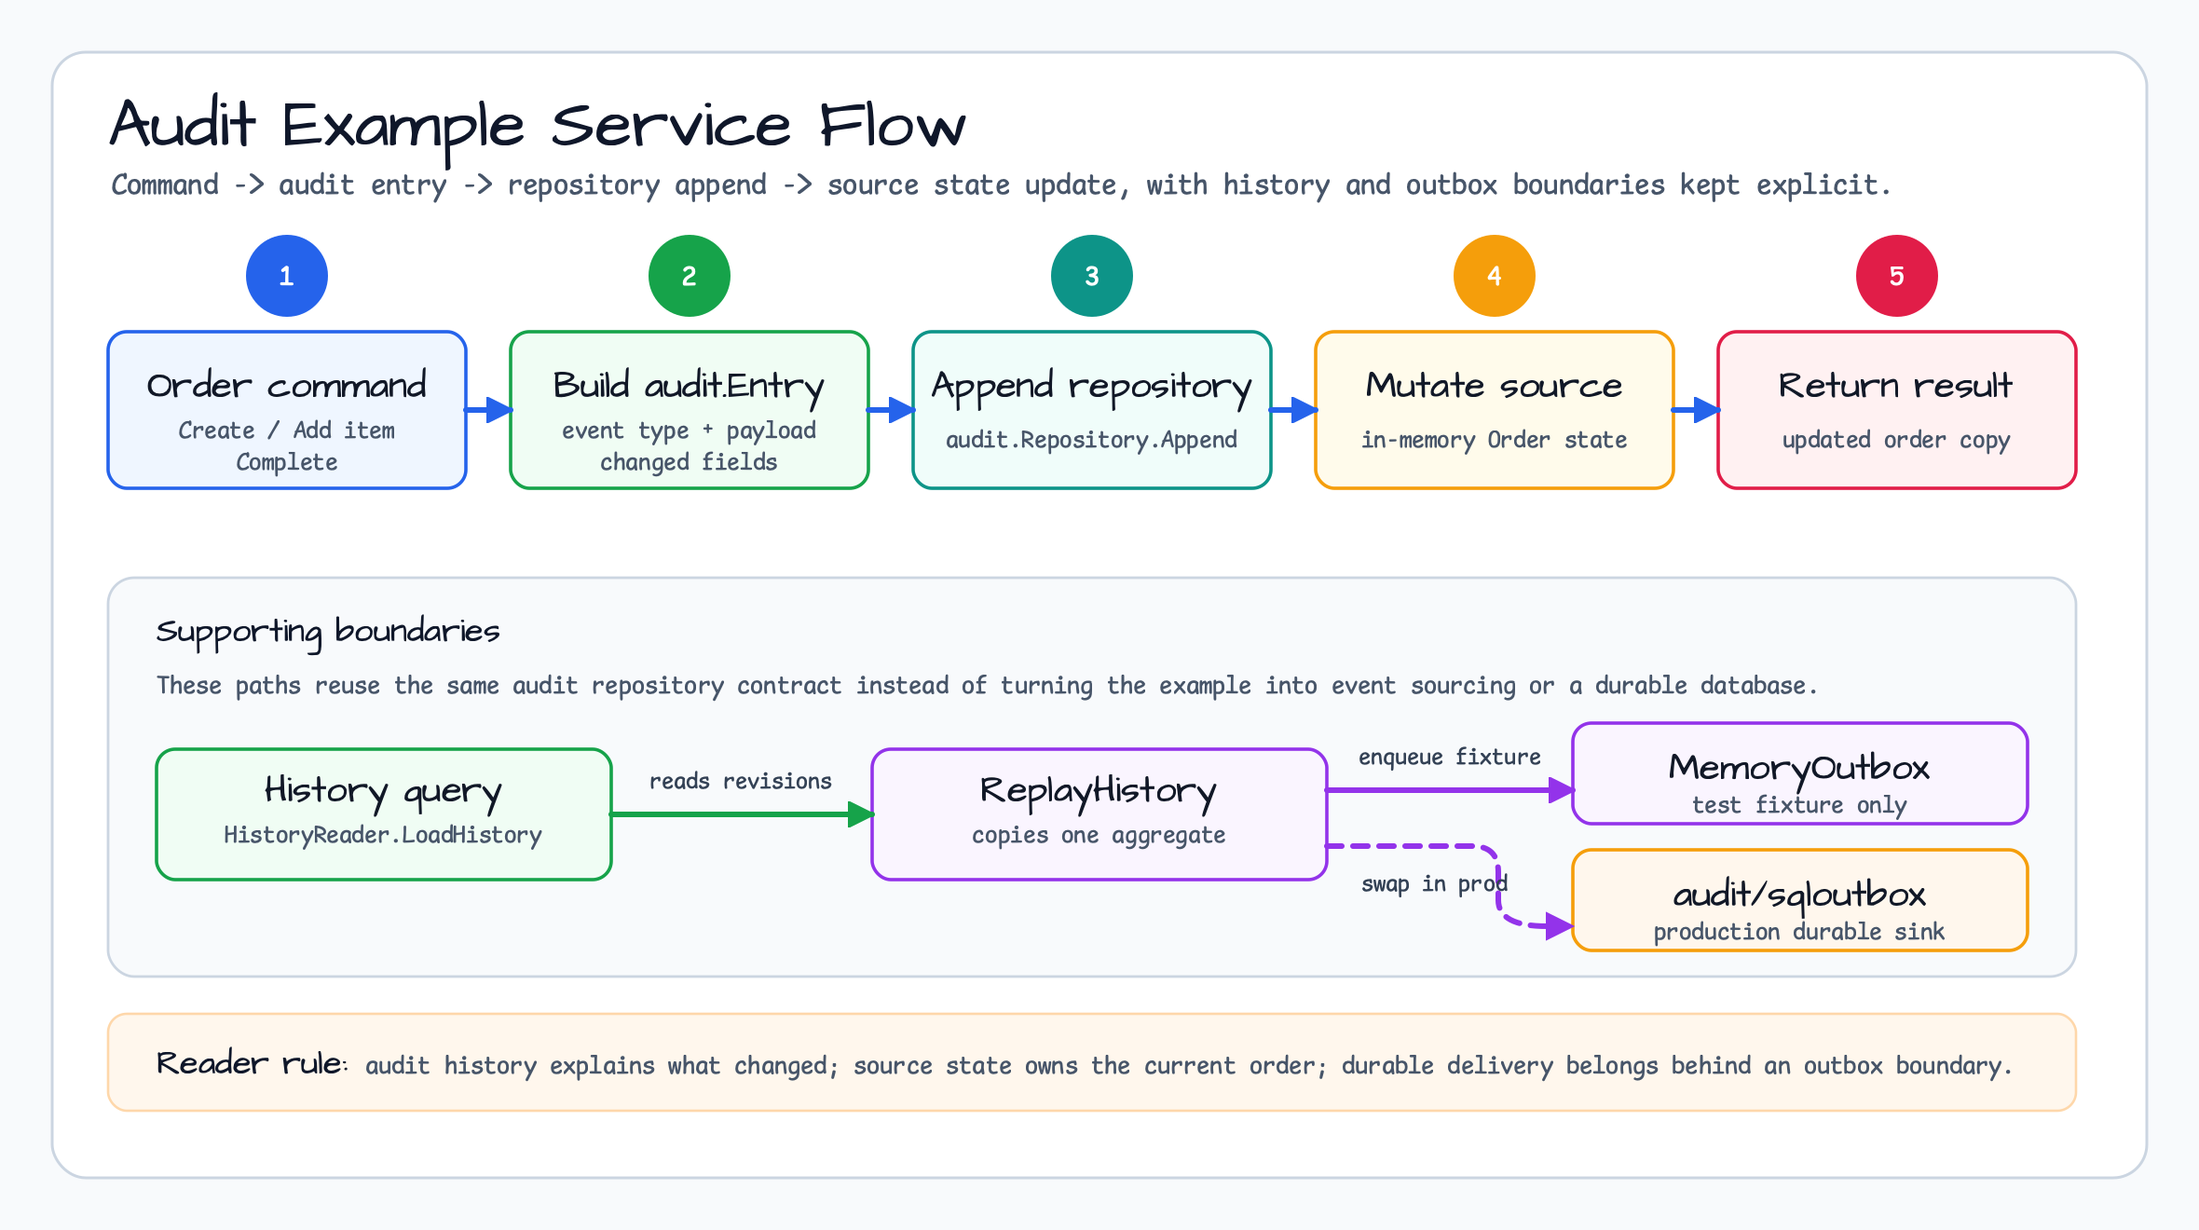
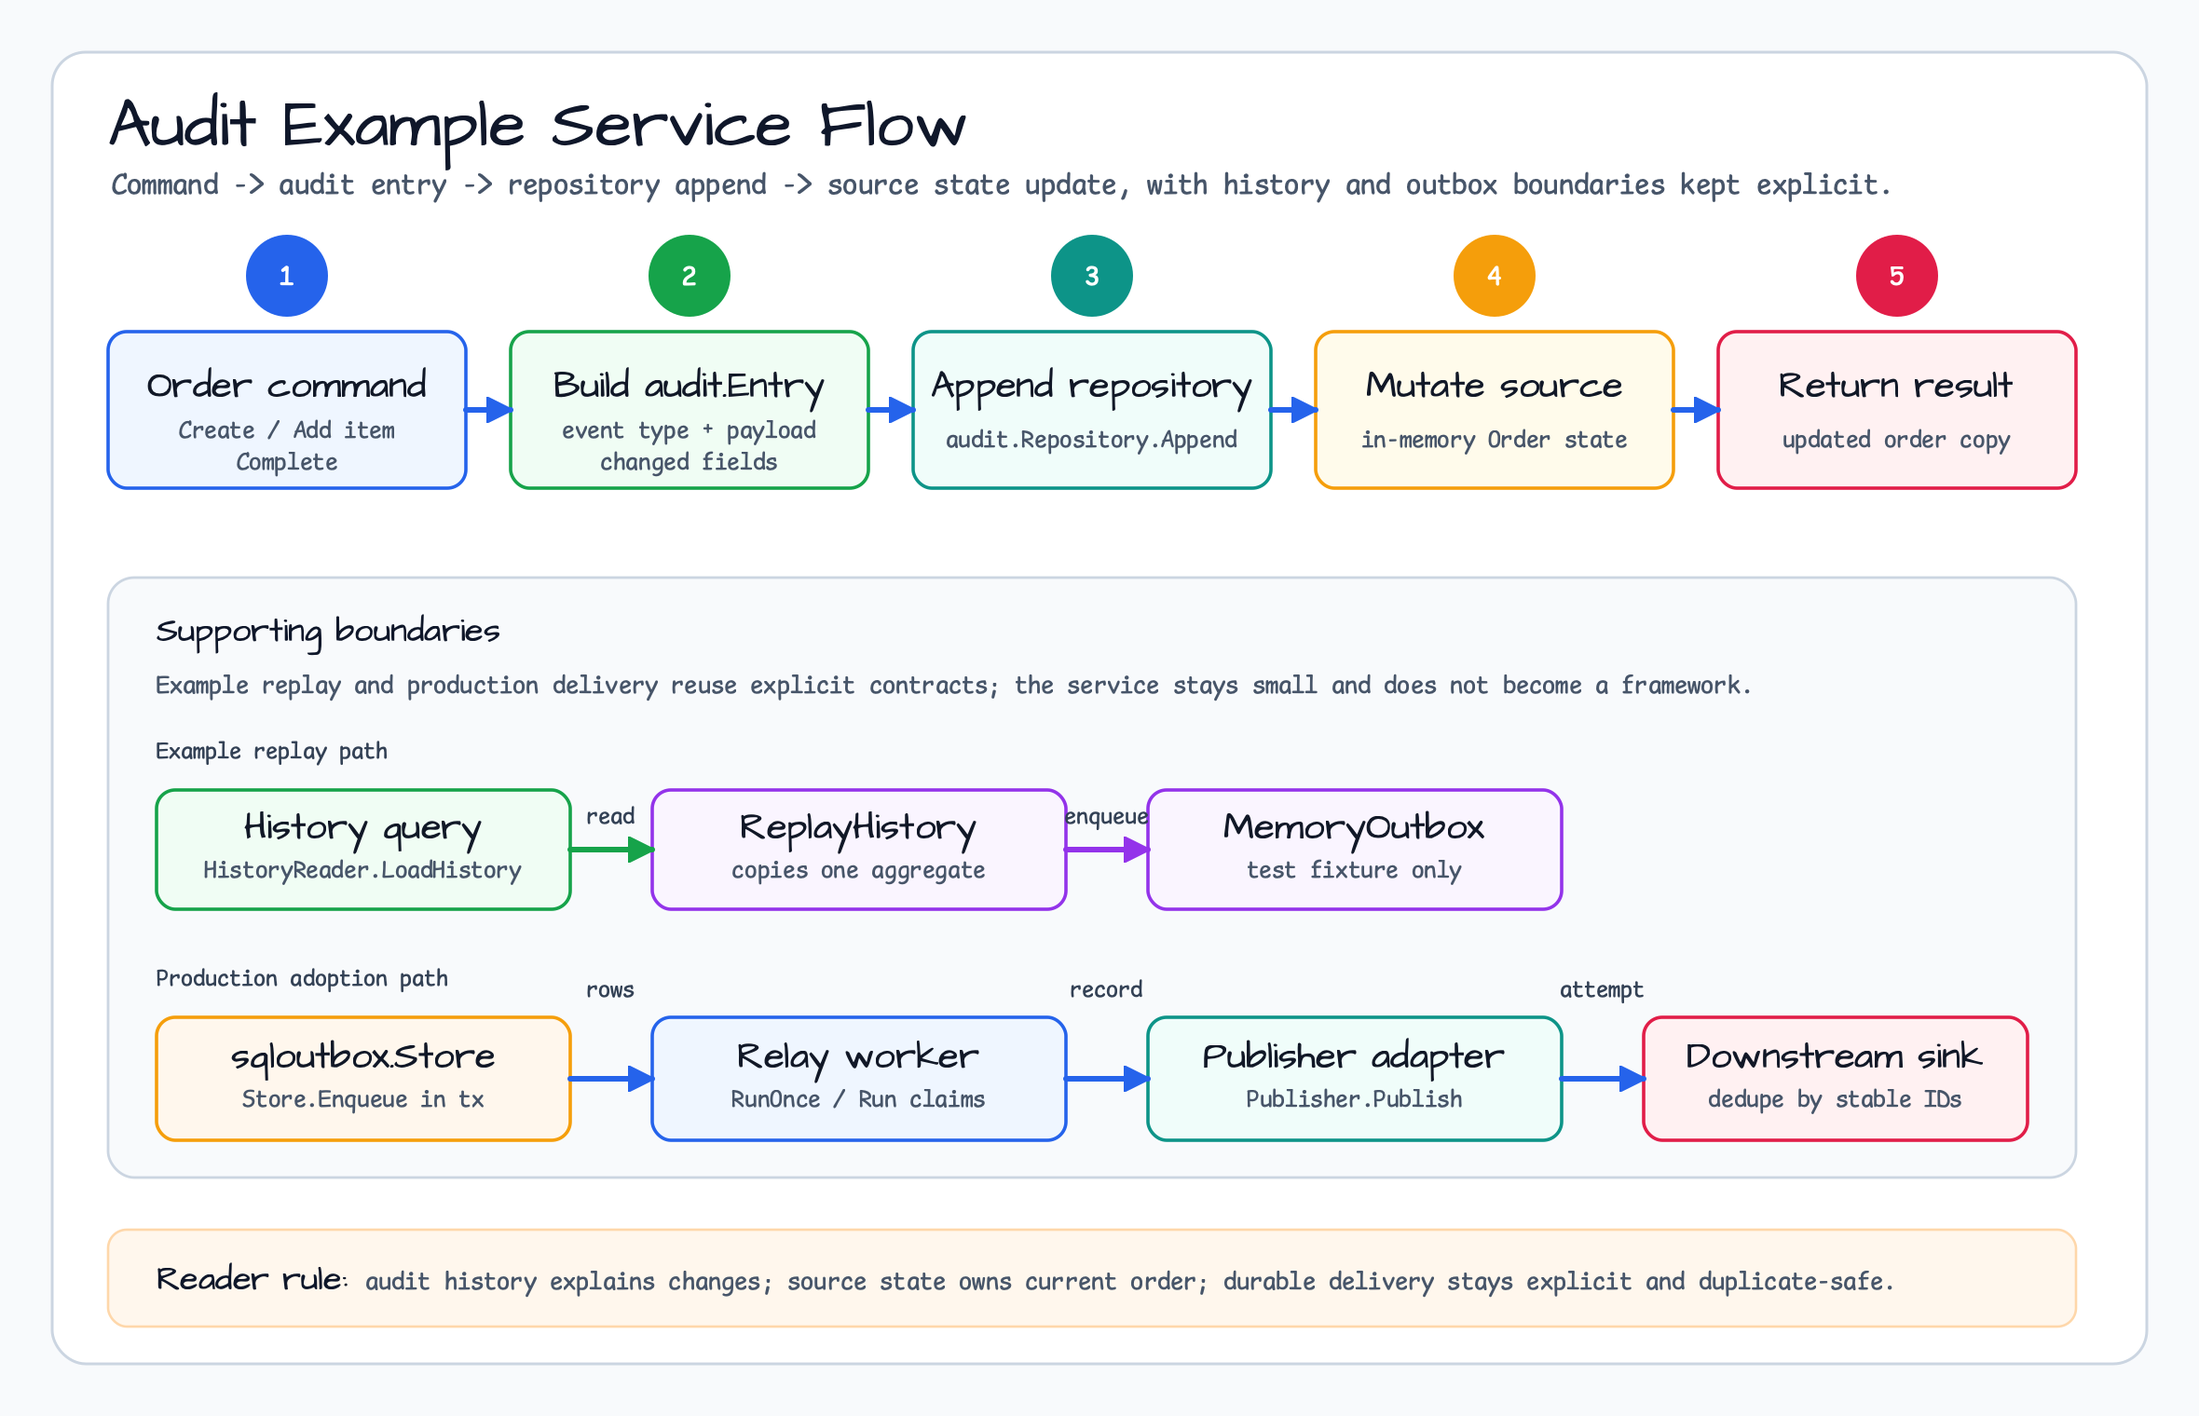
Document audit publisher adoption path
Document audit publisher adoption in README pairs and refresh the audit example flow diagram with relay-to-publisher handoff.\n\nConstraint: #408 required source-checked API names, operator retry/redaction/duplicate-delivery notes, and workshop follow-up linkage.\nRejected: adding a new runtime example framework | docs and one existing diagram answer the adoption question without broadening package scope.\nConfidence: high\nScope-risk: narrow\nDirective: Keep future audit publisher adoption docs explicit about at-least-once delivery and downstream idempotency.\nTested: SVG parse; CairoSVG render; diagram connector/geometry/mixed-corner/endpoint audits; full-size PNG eye check; API symbol grep; go test -count=1 ./examples/audit ./audit/sqloutbox ./audit/sqloutbox/sqloutboxtest; go test -race -count=1 ./examples/audit ./audit/sqloutbox/sqloutboxtest; git diff --check; git diff --cached --check; make ci; GitHub CI success.\nNot-tested: Cross-repo workshop implementation remains tracked by bluetape-go-workshop#57.

Changed region(s): [[0.0619, 0.4348, 0.9589, 0.8697], [0.0309, 0.0311, 0.9898, 0.4038], [0.0309, 0.9008, 0.9589, 0.9629]]

diff --git a/docs/review/2026-07-07-issue-408-audit-publisher-adoption-review.md b/docs/review/2026-07-07-issue-408-audit-publisher-adoption-review.md
@@ -1,0 +1,107 @@
+# Issue #408 Review: Audit Publisher Adoption
+
+## Scope
+
+- English/Korean root README audit example summary updates.
+- English/Korean `examples/audit` README publisher adoption and operator notes.
+- `audit-example-service-flow` SVG/PNG refresh.
+- Research and lesson notes for the adoption decision.
+
+## Subagent Note
+
+Native subagent spawning was not used because the available subagent tool
+surface is gated to explicit user subagent requests. The main session performed
+the six independent review lanes and integration verdict as fallback.
+
+## Lane Findings
+
+### Performance
+
+P0: 0
+P1: 0
+
+- Documentation-only change; no runtime hot path changed.
+- The example still avoids adding a durable broker adapter or new framework
+  layer.
+
+### Stability
+
+P0: 0
+P1: 0
+
+- README prose references existing public API names only.
+- Relay lifecycle distinctions are explicit: `RunOnce` for scheduler polling,
+  `Run` for context-owned worker loops.
+
+### Security
+
+P0: 0
+P1: 0
+
+- Operator notes preserve bounded/redacted publisher error guidance.
+- No credentials, network clients, TLS settings, broker topology, or durable
+  transport configuration are introduced.
+
+### Operator/Ops
+
+P0: 0
+P1: 0
+
+- Retry behavior, cancellation behavior, persisted failure text, duplicate
+  delivery, and downstream idempotency are documented.
+- Workshop follow-up is linked instead of implying this repo now owns all
+  runnable cross-repo service examples.
+
+### Developer/API
+
+P0: 0
+P1: 0
+
+- The adoption path names `Store.Enqueue`, `NewRelay`, `Relay.RunOnce`,
+  `Relay.Run`, `Publisher.Publish`, `Record.EventID`, and
+  `Record.IdempotencyKey`.
+- `sqloutboxtest.RecordingPublisher` and `WithFailures` are documented for
+  retry/duplicate test adoption.
+
+### User/Caller
+
+P0: 0
+P1: 0
+
+- Root and package README pairs now state how the example maps to production
+  outbox relay and publisher handoff.
+- The refreshed diagram shows both the example replay path and the production
+  adoption path in one image.
+
+## Integration Verdict
+
+P0: 0
+P1: 0
+
+The change satisfies #408 without broadening runtime scope. It keeps the audit
+example small, documents the relay-to-publisher adoption path with source
+checked API names, links the workshop follow-up, and updates one existing
+diagram asset with verified rendering.
+
+## Diagram Evidence
+
+| Gate | Evidence | Result |
+|---|---|---|
+| SVG parse | `python3 - <<'PY' ... ET.parse('docs/images/readme-diagrams/audit-example-service-flow.svg') ... PY` | PASS, `xml ok` |
+| PNG render | `cairosvg docs/images/readme-diagrams/audit-example-service-flow.svg -o docs/images/readme-diagrams/audit-example-service-flow.png -s 2` | PASS |
+| Connector audit | `diagram-connector-audit.py docs/images/readme-diagrams/audit-example-service-flow.svg` | PASS, `markers=3 connectors=9 cards=0 intrusions=0 crossings=0` |
+| Geometry audit | `diagram-geometry-audit.py docs/images/readme-diagrams/audit-example-service-flow.svg` | PASS, `geometry_failures=0` |
+| Mixed-corner audit | `diagram-mixed-corner-audit.py docs/images/readme-diagrams/audit-example-service-flow.svg` | PASS, `paths=9 q_bends=0 failures=0` |
+| Endpoint audit | `diagram-endpoint-audit.py docs/images/readme-diagrams/audit-example-service-flow.svg` | PASS |
+| Full-size eye check | Visual inspection of rendered `audit-example-service-flow.png` after label adjustment | PASS, no text/connector overlap observed |
+
+## Evidence
+
+- `rg -n "type Publisher|func NewRelay|RunOnce|Run\\(|Enqueue|EventID|IdempotencyKey|NewRecordingPublisher|WithFailures" audit/sqloutbox audit/sqloutbox/sqloutboxtest`
+- `go test -count=1 ./examples/audit ./audit/sqloutbox ./audit/sqloutbox/sqloutboxtest`
+- `go test -race -count=1 ./examples/audit ./audit/sqloutbox/sqloutboxtest`
+- `git diff --check`
+- `git diff --cached --check`
+- `golangci-lint cache clean` after an initial lint run referenced the removed
+  #407 worktree from cache
+- `make ci`

diff --git a/examples/audit/README.ko.md b/examples/audit/README.ko.md
@@ -4,7 +4,8 @@
 
 이 package는 `audit` package를 사용하는 runnable order-service example입니다.
 Framework나 public helper API를 추가하지 않고 command-side aggregate 변경,
-audit repository write, history query, optional outbox replay를 보여줍니다.
+audit repository write, history query, optional outbox replay, durable outbox
+row에서 publisher로 이어지는 운영 handoff를 보여줍니다.
 
 ![Audit Example Service Flow](../../docs/images/readme-diagrams/audit-example-service-flow.png)
 
@@ -23,7 +24,37 @@ audit repository write, history query, optional outbox replay를 보여줍니다
 
 `MemoryOutbox`는 replay boundary를 테스트하기 위한 fixture입니다. 운영 code에서는
 application-owned transaction 안에서 `EntrySink`를
-`audit/sqloutbox.Store.Enqueue`로 연결하면 됩니다.
+`audit/sqloutbox.Store.Enqueue`로 연결하면 됩니다. Service-owned relay는
+`sqloutbox.NewRelay`를 만들고 `Relay.RunOnce` 또는 `Relay.Run`으로 polling한 뒤,
+claim된 `sqloutbox.Record`를 `sqloutbox.Publisher.Publish`에 넘깁니다.
+
+## Publisher Adoption
+
+Adoption path는 명시적으로 유지합니다.
+
+1. Source write와 `Store.Enqueue`는 caller-owned `*sql.Tx`를 공유합니다. Package는
+   transaction hook을 숨기지 않습니다.
+2. `Relay.RunOnce`는 scheduler-owned polling에, `Relay.Run`은 `context.Context`로
+   제어되는 worker lifecycle에 사용합니다.
+3. Publisher adapter는 `Record.EventID`와 `Record.IdempotencyKey`를 보존해야
+   downstream consumer가 at-least-once delivery를 deduplicate할 수 있습니다.
+4. Durable transport adapter가 없을 때도 test와 workshop에서는
+   `sqloutboxtest.RecordingPublisher`와 `sqloutboxtest.WithFailures`로 retry와
+   duplicate-delivery behavior를 먼저 증명할 수 있습니다.
+
+Operator notes:
+
+- Retry는 cancellation이 아닌 `Publisher.Publish` error와 relay의 `MaxAttempts` /
+  `RetryDelay` option으로 제어됩니다.
+- Context cancellation과 deadline은 retry/dead-letter 상태를 만들지 않고 worker를
+  멈춥니다.
+- Persisted failure text는 operator-facing입니다. Publisher가 반환하는 error는
+  bounded/redacted여야 합니다.
+- Duplicate delivery는 contract의 일부입니다. Consumer는 `Record.EventID` 또는
+  `Record.IdempotencyKey`를 stable idempotency key로 취급해야 합니다.
+- Cross-repo workshop coverage는
+  [bluetape-go-workshop#57](https://github.com/bluetape4k/bluetape-go-workshop/issues/57)
+  에서 추적합니다.
 
 ## Non-Goals
 
@@ -44,6 +75,7 @@ go test -race -count=1 ./examples/audit
 
 - [`audit`](../../audit/README.ko.md)
 - [`audit/sqloutbox`](../../audit/sqloutbox/README.ko.md)
+- [`audit/sqloutbox/sqloutboxtest`](../../audit/sqloutbox/sqloutboxtest/README.ko.md)
 - [`testing/concurrency`](../../testing/concurrency/README.ko.md)
 
 Diagram source: [`audit-example-service-flow.svg`](../../docs/images/readme-diagrams/audit-example-service-flow.svg)

diff --git a/examples/audit/README.md b/examples/audit/README.md
@@ -4,7 +4,8 @@
 
 This package is a runnable order-service example for the `audit` package. It
 shows command-side aggregate changes, audit repository writes, history queries,
-and optional outbox replay without introducing a framework or public helper API.
+optional outbox replay, and the production handoff from durable outbox rows to a
+publisher without introducing a framework or public helper API.
 
 ![Audit Example Service Flow](../../docs/images/readme-diagrams/audit-example-service-flow.png)
 
@@ -23,7 +24,37 @@ Think of the example as three small boundaries, not one framework:
 
 `MemoryOutbox` is only a fixture for the replay boundary. Production code can
 adapt `EntrySink` to `audit/sqloutbox.Store.Enqueue` inside an
-application-owned transaction.
+application-owned transaction. A service-owned relay then calls
+`sqloutbox.NewRelay`, polls with `Relay.RunOnce` or `Relay.Run`, and hands each
+claimed `sqloutbox.Record` to `sqloutbox.Publisher.Publish`.
+
+## Publisher Adoption
+
+Keep the adoption path explicit:
+
+1. Source writes and `Store.Enqueue` share the caller-owned `*sql.Tx`; the
+   package does not hide transaction hooks.
+2. `Relay.RunOnce` is for scheduler-owned polling, while `Relay.Run` is for a
+   worker lifecycle controlled by `context.Context`.
+3. Publisher adapters must preserve `Record.EventID` and
+   `Record.IdempotencyKey` so downstream consumers can deduplicate at-least-once
+   delivery.
+4. Tests and workshops can use `sqloutboxtest.RecordingPublisher` with
+   `sqloutboxtest.WithFailures` to prove retry and duplicate-delivery behavior
+   before a durable transport adapter exists.
+
+Operator notes:
+
+- Retry is driven by non-cancellation `Publisher.Publish` errors and the
+  relay's `MaxAttempts` / `RetryDelay` options.
+- Context cancellation and deadlines stop the worker without creating retry or
+  dead-letter state.
+- Persisted failure text is operator-facing; returned publisher errors must be
+  bounded and redacted.
+- Duplicate delivery is part of the contract. Consumers should treat
+  `Record.EventID` or `Record.IdempotencyKey` as the stable idempotency key.
+- Cross-repo workshop coverage is tracked in
+  [bluetape-go-workshop#57](https://github.com/bluetape4k/bluetape-go-workshop/issues/57).
 
 ## Non-Goals
 
@@ -44,6 +75,7 @@ go test -race -count=1 ./examples/audit
 
 - [`audit`](../../audit/README.md)
 - [`audit/sqloutbox`](../../audit/sqloutbox/README.md)
+- [`audit/sqloutbox/sqloutboxtest`](../../audit/sqloutbox/sqloutboxtest/README.md)
 - [`testing/concurrency`](../../testing/concurrency/README.md)
 
 Diagram source: [`audit-example-service-flow.svg`](../../docs/images/readme-diagrams/audit-example-service-flow.svg)

diff --git a/docs/research/2026-07-07-issue-408-audit-publisher-adoption.md b/docs/research/2026-07-07-issue-408-audit-publisher-adoption.md
@@ -1,0 +1,62 @@
+# Issue #408 Audit Publisher Adoption
+
+Issue: #408
+Milestone: 0.15.0
+Decision date: 2026-07-07
+
+## Decision
+
+Document audit publisher adoption in the existing audit example instead of
+adding a new framework-style example API.
+
+The example still owns only:
+
+- command-side `audit.Entry` creation,
+- explicit `audit.Repository` append before source-state mutation,
+- history queries through the repository boundary, and
+- replay into an `EntrySink`.
+
+Production adoption is documented as an explicit handoff:
+
+1. Caller-owned source writes and `audit/sqloutbox.Store.Enqueue` share the
+   same `*sql.Tx`.
+2. `sqloutbox.NewRelay` creates the relay.
+3. `Relay.RunOnce` or `Relay.Run` claims durable rows.
+4. `sqloutbox.Publisher.Publish` receives each `sqloutbox.Record`.
+5. Publisher adapters preserve `Record.EventID` and `Record.IdempotencyKey` for
+   duplicate-safe downstream consumers.
+
+## Source Checks
+
+The README names are source-checked against:
+
+- `audit/sqloutbox/store.go`: `Store.Enqueue`, `Record.EventID`,
+  `Record.IdempotencyKey`.
+- `audit/sqloutbox/relay.go`: `Publisher`, `NewRelay`, `Relay.RunOnce`,
+  `Relay.Run`.
+- `audit/sqloutbox/sqloutboxtest/publisher.go`: `RecordingPublisher`,
+  `NewRecordingPublisher`, `WithFailures`.
+
+## Operator Contract
+
+The documentation must keep the operational contract visible:
+
+- Delivery is at-least-once.
+- Non-cancellation publish errors drive retry/dead-letter state.
+- Context cancellation and deadlines stop worker lifecycle without mutating
+  retry/dead-letter state.
+- Persisted failure text is operator-facing, so publisher errors must be
+  bounded and redacted.
+- Duplicate delivery is expected; consumers own idempotency.
+
+## Diagram Decision
+
+Update the existing `audit-example-service-flow` diagram rather than adding a
+second package-local diagram. The existing image already owns the example
+service narrative; #408 only extends the adoption path from durable outbox rows
+to relay, publisher adapter, and downstream deduplication.
+
+## Cross-Repo Follow-Up
+
+Workshop-facing runnable coverage is tracked in
+[bluetape-go-workshop#57](https://github.com/bluetape4k/bluetape-go-workshop/issues/57).

diff --git a/docs/lessons/2026-07-07-issue-408-audit-publisher-adoption.md b/docs/lessons/2026-07-07-issue-408-audit-publisher-adoption.md
@@ -1,0 +1,30 @@
+# Issue #408 Audit Publisher Adoption Lesson
+
+Date: 2026-07-07
+Scope: `examples/audit`, `audit/sqloutbox`
+
+## Lesson
+
+Audit publisher adoption belongs in the example boundary documentation, not in
+a new abstraction. The durable path should read as
+`Store.Enqueue -> Relay.RunOnce/Run -> Publisher.Publish -> downstream
+dedupe`, with transaction ownership and duplicate delivery visible.
+
+## Pattern
+
+- Keep `examples/audit` small and runnable.
+- Use `EntrySink` as the seam between the example replay path and production
+  `Store.Enqueue`.
+- Document relay lifecycle choices: `RunOnce` for scheduler-owned polling,
+  `Run` for service-owned workers.
+- Preserve stable `Record.EventID` and `Record.IdempotencyKey` in any publisher
+  adapter prose.
+- Link workshop follow-up issues when runnable cross-repo examples are needed.
+- When a README diagram already owns the reader question, update that single
+  asset and rerender it instead of adding parallel diagrams.
+
+## Follow-Up
+
+Durable broker adapters still need separate packages and operator runbooks for
+topology, authentication/TLS, retention, replay, redaction, and consumer
+idempotency.

diff --git a/README.ko.md b/README.ko.md
@@ -215,7 +215,11 @@ Audit 예제는 일부러 작게 만들었습니다. 현재 상태를 가진 sou
 `audit.Entry`를 append하고, append가 성공한 뒤에만 예제 order state를 바꿉니다.
 History query도 같은 repository boundary를 읽습니다. Outbox replay는 최소
 `EntrySink`만 사용하므로 운영 code에서는 in-memory fixture 대신 `audit/sqloutbox`를
-연결하면 됩니다. 예제를 framework로 키우지 않고 boundary만 드러내려는 의도입니다.
+연결하면 됩니다. Adoption path도 명시적으로 유지합니다. `Store.Enqueue`가 durable
+row를 쓰고, `Relay.RunOnce` 또는 `Relay.Run`이 claim하며,
+`sqloutbox.Publisher` adapter가 duplicate-safe consumer를 위해 `Record.EventID` /
+`Record.IdempotencyKey`를 보존합니다. 예제를 framework로 키우지 않고 boundary만
+드러내려는 의도입니다.
 
 ## Roadmap
 

diff --git a/README.md b/README.md
@@ -224,7 +224,10 @@ from the audit history: commands append `audit.Entry` values through an
 `audit.Repository`, then mutate the example order state only after the append
 succeeds. History queries read the same repository boundary, and outbox replay
 uses a minimal `EntrySink` so production code can swap the in-memory fixture for
-`audit/sqloutbox` without turning the example into a framework.
+`audit/sqloutbox` without turning the example into a framework. The adoption
+path stays explicit: `Store.Enqueue` writes durable rows, `Relay.RunOnce` or
+`Relay.Run` claims them, and a `sqloutbox.Publisher` adapter preserves
+`Record.EventID` / `Record.IdempotencyKey` for duplicate-safe consumers.
 
 ## Roadmap
 
